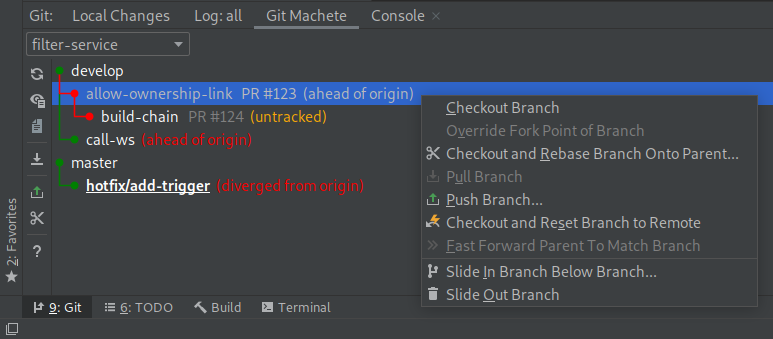
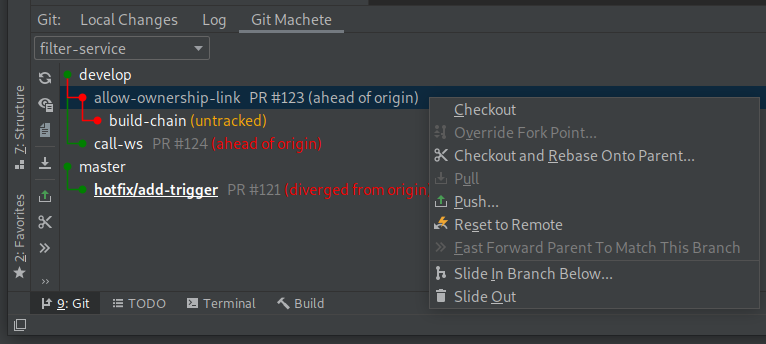
Update actions ss; Make text sound less formal; Cleanup

diff --git a/blog.md b/blog.md
@@ -11,11 +11,11 @@ while also promoting creation of small PRs &mdash;
 **a git repository organizer, and a rebase/merge/push/pull automation tool, named Git Machete.**
 
 It allows for looking at the state of the repository from a previously inexperienceable perspective.
-It puts the primary focus on branches (rather than commits), their relationship to each other,
-and their relationship to the remote repository.
-Moreover, it provides both diagnostic and corrective functionalities
+It puts the primary focus on branches (rather than commits),
+their relationship to each other and also to the remote repository.
+Moreover, it gives both diagnostic and restorative functionalities
 for the shape of the repository and the mentioned relationships.
-It finds an exceptional application in maintaining linear Git history.
+It finds an outstanding application in maintaining linear Git history.
 
 
 ## Git Machete
@@ -36,14 +36,14 @@ The main features of the plugin are:
 The picture above presents the demo repository _filter-service_ with a few branches.
 It contains two **root branches**: _develop_ and _master_.
 The first of them has two **child branches**: _allow-ownership-link_
-(with another child branch - _build-chain_), and _call-ws_.
+(with another child branch &mdash; _build-chain_), and _call-ws_.
 
 Each line contains a name of a branch, an optional custom annotation, and relation to the remote branch.
 
-Without going into details, the **green edge** indicates the desired state -
+Without going into details, the **green edge** indicates the desired state &mdash;
 the tip of the child branch is a direct descendant of the parent branch tip
 (i.e. all commits reachable from the parent are also reachable from the child).<br/>
-On the other hand, the **red edge** tells us the opposite -
+On the other hand, the **red edge** tells us the opposite &mdash;
 the tip of the child branch is **not** a direct descendant of the parent branch tip.
 
 In most cases, an edge becomes red after committing some changes to the parent branch (review fixes)
@@ -62,27 +62,28 @@ The graph is automatically refreshed when `.git/machete` is modified.
 Bear in mind that there is no need to edit the machete file manually to set up your branch layout tree.
 Feel free to use `Discover Branch Layout` functionality that will find it out for you automatically.
 It can be performed from `Help -> Find Action...` (default shortcut: `Ctrl + Shift + A`).
+Furthermore, the discover happens in the case of a missing or empty machete file
+(although the discovered layout might require some manual changes).
 
 
 #### Lights, Camera... Actions
 
 The plugin provides a bunch of actions that can help you to manage your repository.
 
-Among the others, there is `Rebase onto parent`
+Among the others, there is `Rebase onto Parent`
 (that performs interactive rebase of a given branch onto its parent), `Push` and `Pull`.
 Let's have a look at the following example...
 
 ![Git Machete - Actions](actions-before_dark.png "Git Machete - Actions - Before")
 
-
-Branch `allow-ownership-link` is **out of sync** (red edge) to its parent - `develop`.
+Branch `allow-ownership-link` is **out of sync** (red edge) to its parent &mdash; `develop`.
 Furthermore, it is **ahead of** its remote branch (`origin/develop`).
 With Git Machete we can quickly and conveniently lead it to a desired state.
 
 
 First, `Checkout and Rebase Branch Onto Parent`.
 This will perform an interactive rebase from IntelliJ.
-Once the rebase is finished the branch is now **in sync** (green edge) with its parent.
+Once the rebase is finished, the branch is **in sync** (green edge) with its parent.
 
 
 ##### VCS Log Rebase
@@ -129,7 +130,7 @@ This is exactly what Git Machete is promoting.
 ### The future of Git Machete
 
 Git Machete plugin is being developed and maintained continuously.
-We are doing our best to provide new features and react to the users' feedback.
+We are doing our best to provide new features and quickly react to the users' feedback.
 We are responding to the new issues and ideas.
 
 The feature that we are definitely aiming for now is the traverse functionality
